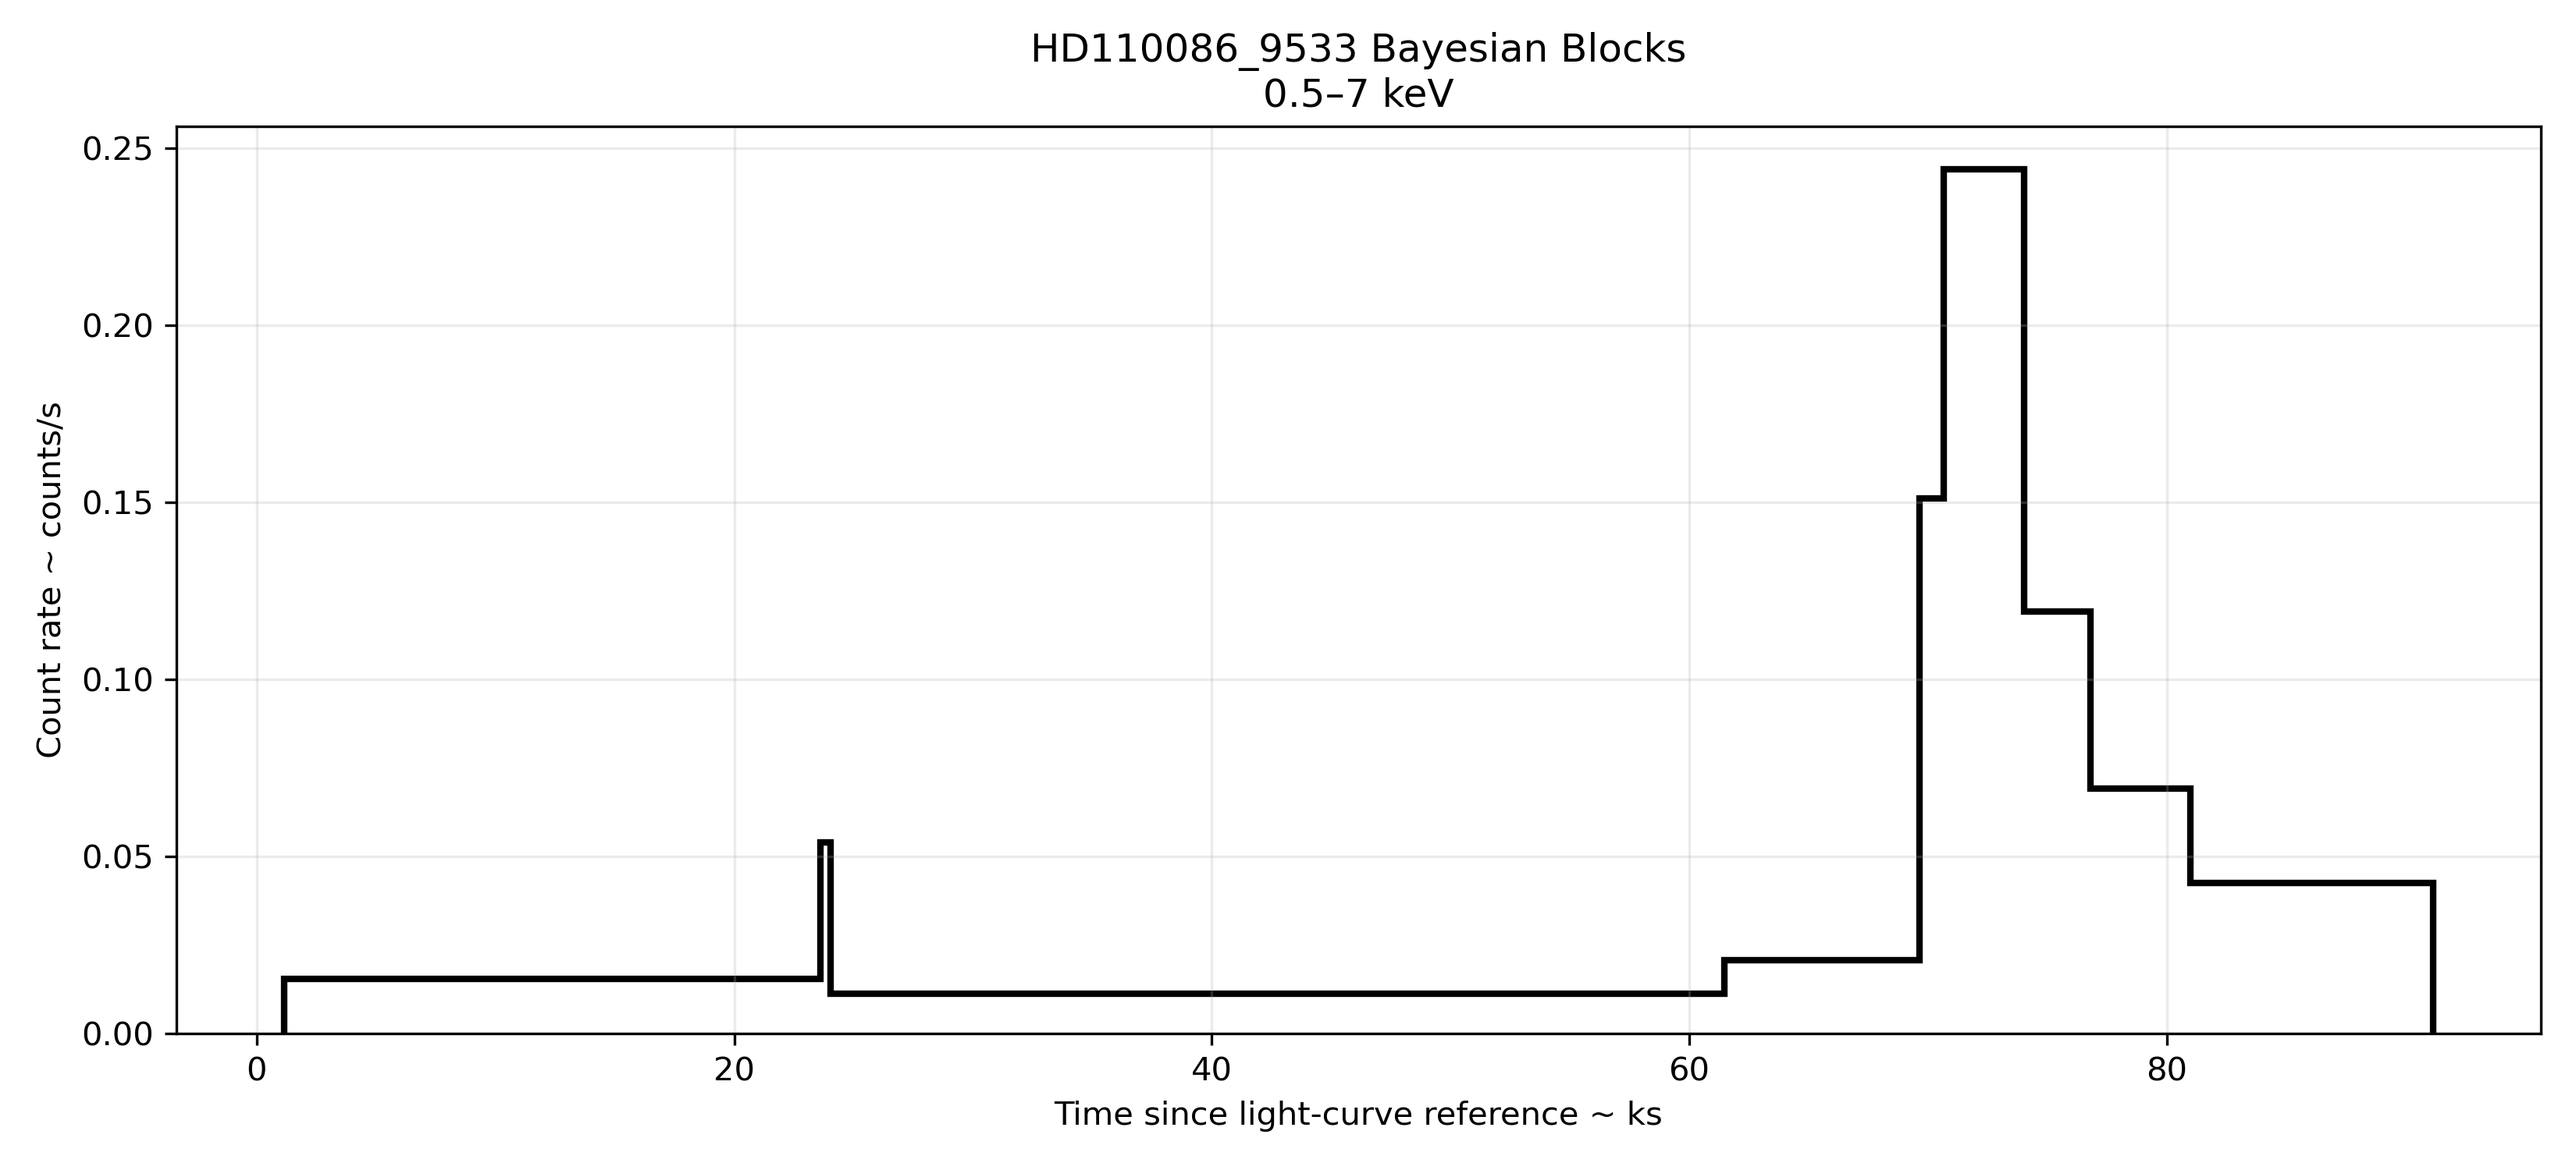
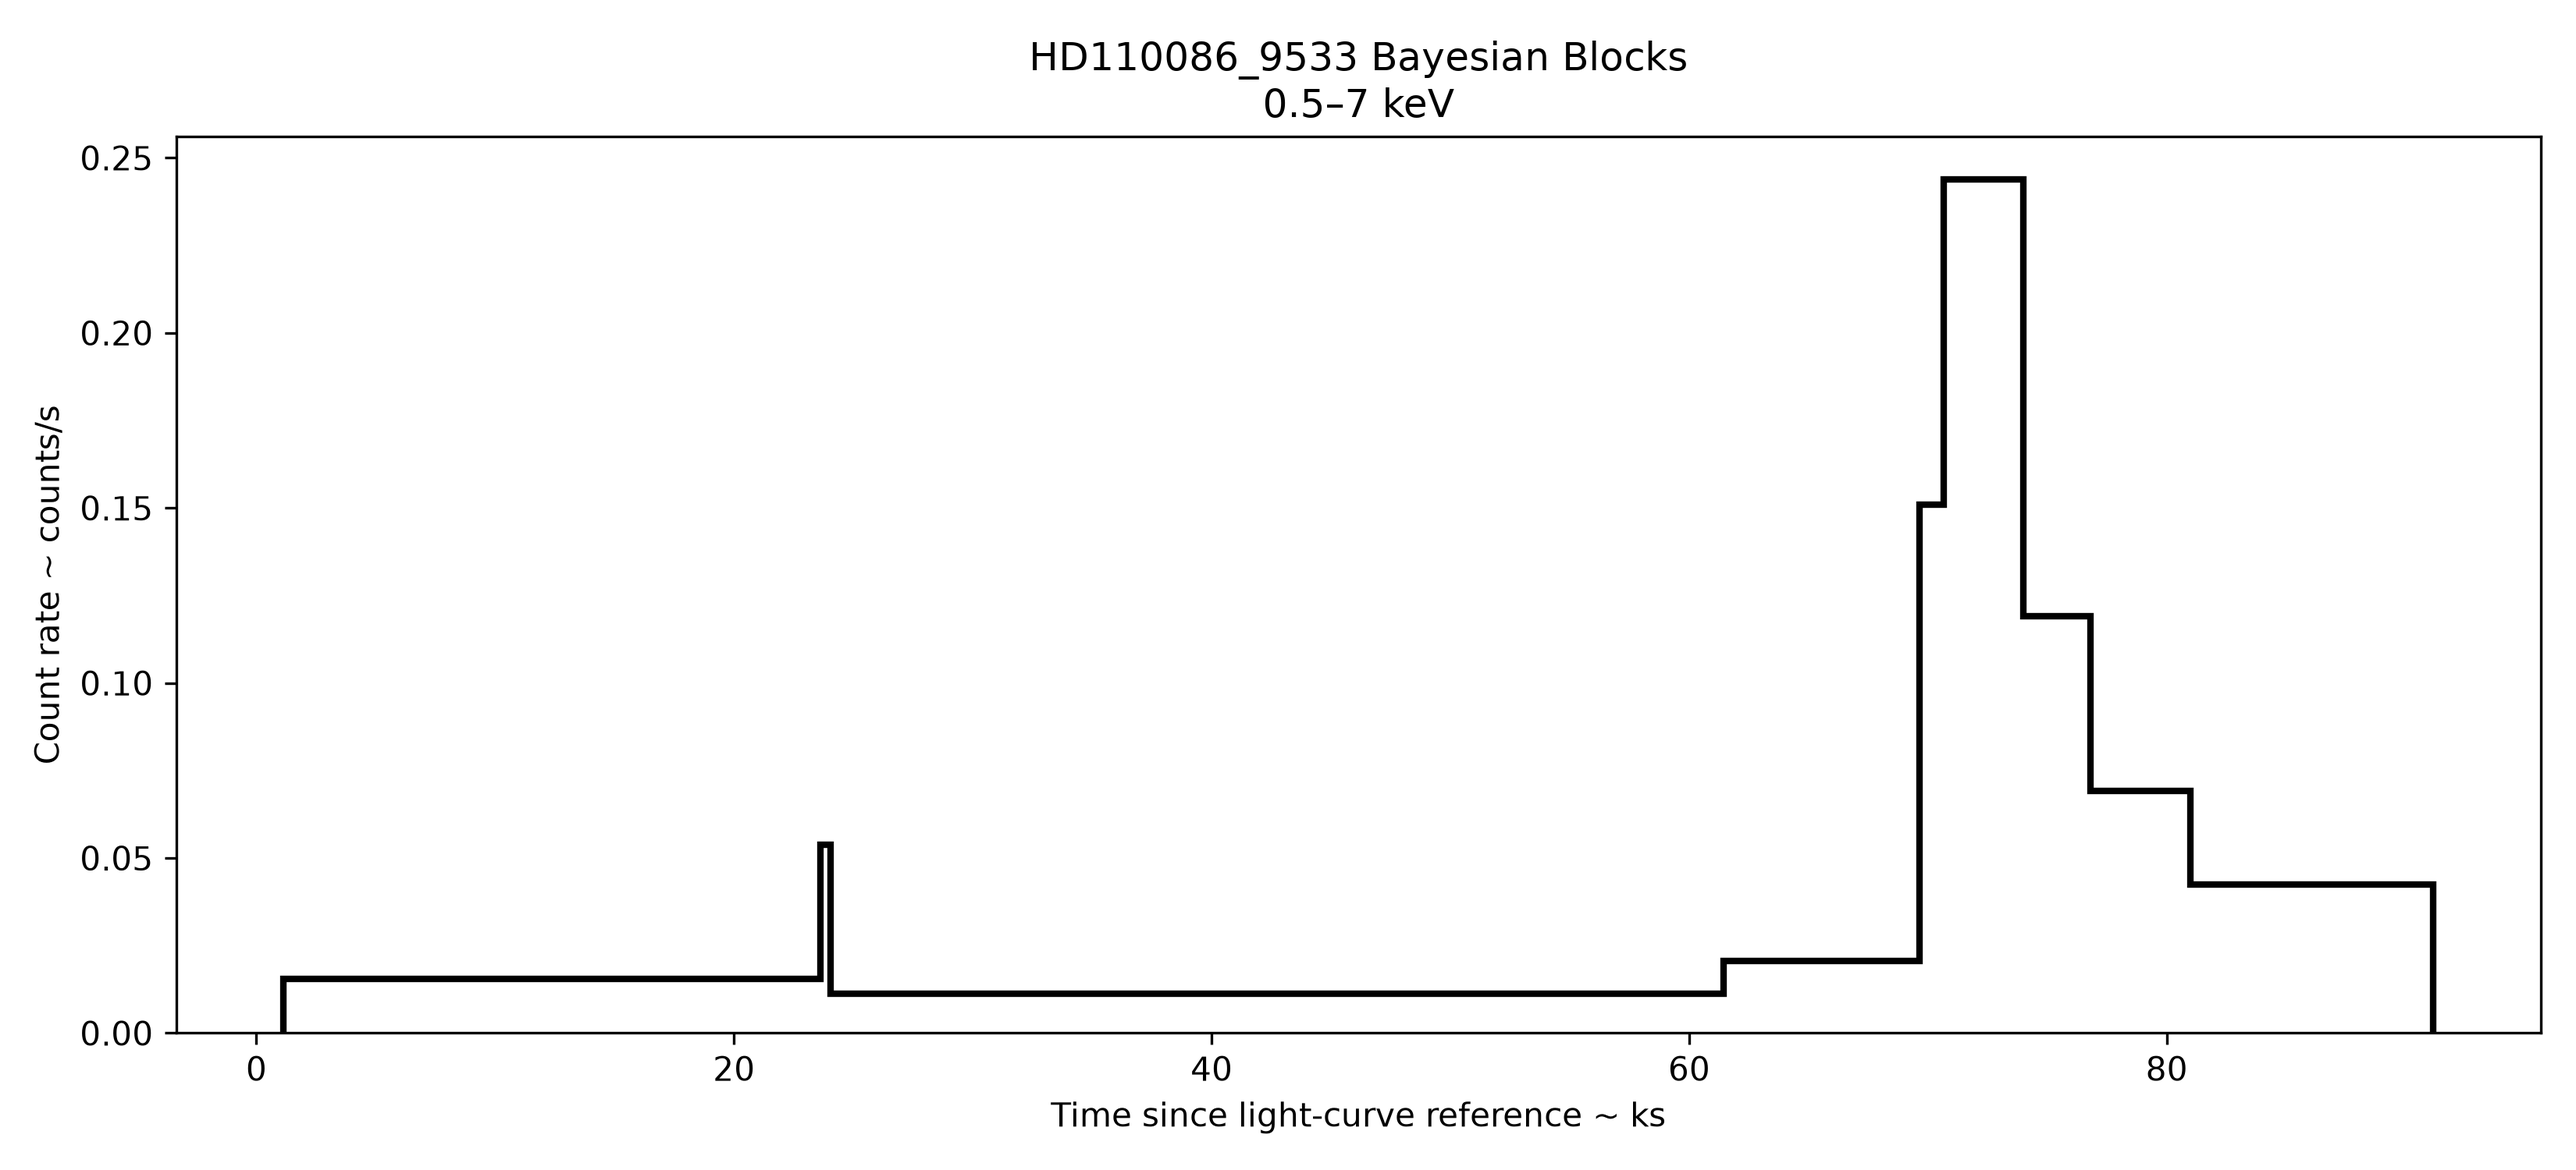
Simplify HD 110086 plot formatting

diff --git a/9533plottingbackground.py b/9533plottingbackground.py
@@ -65,7 +65,7 @@ print("Maximum net rate:", np.nanmax(net_rate))
 fig, (ax1, ax2) = plt.subplots(2, 1, figsize=(12, 7), sharex=True)
 
 ax1.plot(time_ks, source_rate, color="black", lw=1.2, drawstyle="steps-mid")
-ax1.plot(time_ks, scaled_background, color="red", linestyle="--", lw=1.2, drawstyle="steps-mid", label="Scaled background")
+ax1.plot(time_ks, scaled_background, color="red", linestyle="--", lw=1.2, drawstyle="steps-mid")
 ax1.set_title("HD110086_9533 Source vs Background")
 ax1.set_ylabel("Count rate ~ counts/s")
 ax1.grid(alpha=0.25)
@@ -81,5 +81,7 @@ for ax in (ax1, ax2):
     ax.axvspan(flare_start, flare_end, color="orange", alpha=0.15)
 
 plt.tight_layout()
+for ax in plt.gcf().axes:
+    ax.grid(False)
 plt.savefig(root / 'plots/OBS_9533_source_background.png', dpi=300, bbox_inches="tight")
 plt.show()

diff --git a/9533flaremeasurements.py b/9533flaremeasurements.py
@@ -77,5 +77,7 @@ plt.ylabel("Count rate ~ counts/s")
 plt.title("HD110086_9533 Flare Measurements")
 plt.grid(alpha=0.25)
 plt.tight_layout()
+for ax in plt.gcf().axes:
+    ax.grid(False)
 plt.savefig(root / 'plots/OBS_9533_flare_measurements.png', dpi=300)
 plt.show()

diff --git a/9533bayesianblocks.py b/9533bayesianblocks.py
@@ -63,6 +63,7 @@ ax.set_ylabel("Count rate ~ counts/s")
 ax.set_title("HD110086_9533 Bayesian Blocks\n0.5–7 keV")
 ax.grid(alpha=0.25)
 plt.tight_layout()
+plt.grid(False)
 plt.savefig(root / 'plots/OBS_9533_bayesian_blocks.png', dpi=300)
 plt.show()
 

diff --git a/9533energy.py b/9533energy.py
@@ -52,6 +52,8 @@ for ax in axes:
     ax.axvspan(70, 75, color="orange", alpha=0.15)
     ax.grid(alpha=0.2)
 
+for ax in axes:
+    ax.grid(False)
 plt.tight_layout()
 plt.savefig(root / 'plots/OBS_9533_energy_analysis.png', dpi=300)
 plt.show()

diff --git a/9533lc.py b/9533lc.py
@@ -24,5 +24,6 @@ plt.ylabel("Count rate ~ counts/s")
 plt.title("HD110086_9533 Light Curve")
 plt.grid(alpha=0.25)
 plt.tight_layout()
+plt.grid(False)
 plt.savefig(root / 'plots/OBS_9533_light_curve.png', dpi=300)
 plt.show()

diff --git a/9533dithering.py b/9533dithering.py
@@ -23,5 +23,6 @@ plt.ylabel("FRACAREA")
 plt.title("HD110086_9533 Detector Coverage")
 plt.grid(alpha=0.25)
 plt.tight_layout()
+plt.grid(False)
 plt.savefig(root / 'plots/OBS_9533_dither_check.png', dpi=300)
 plt.show()
